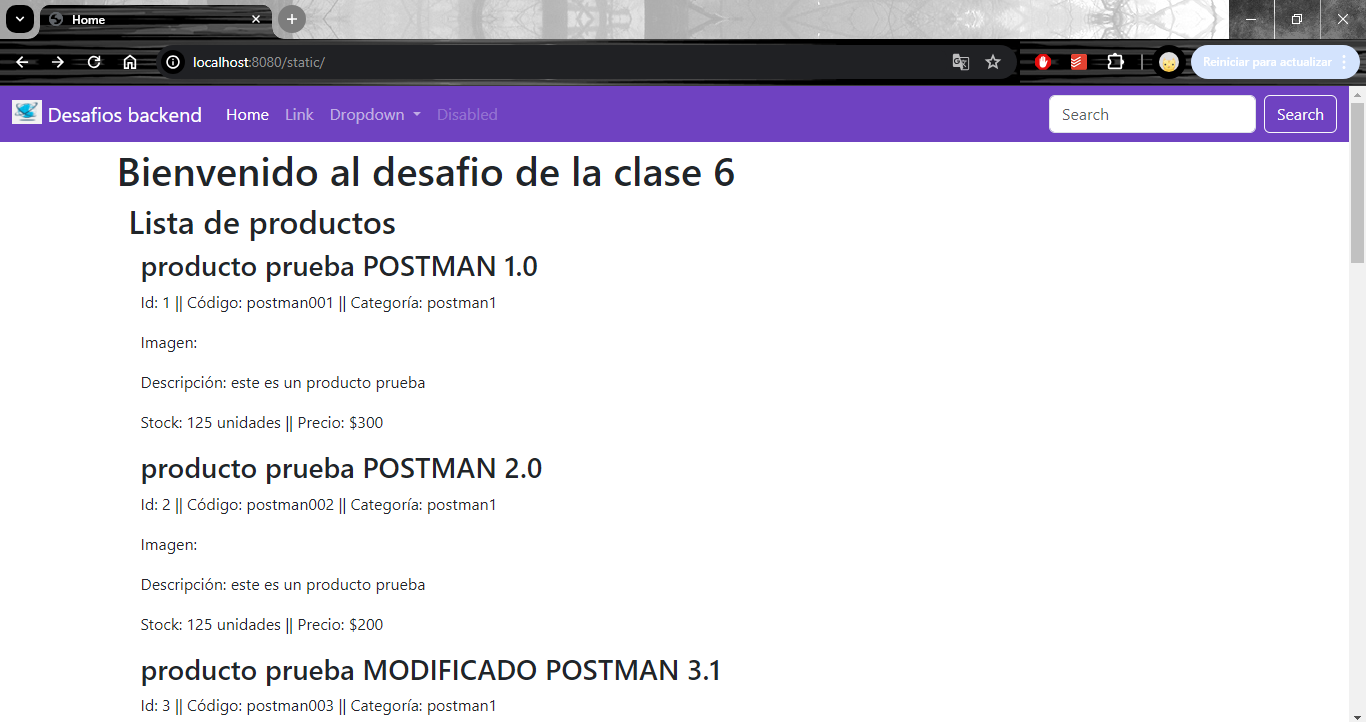
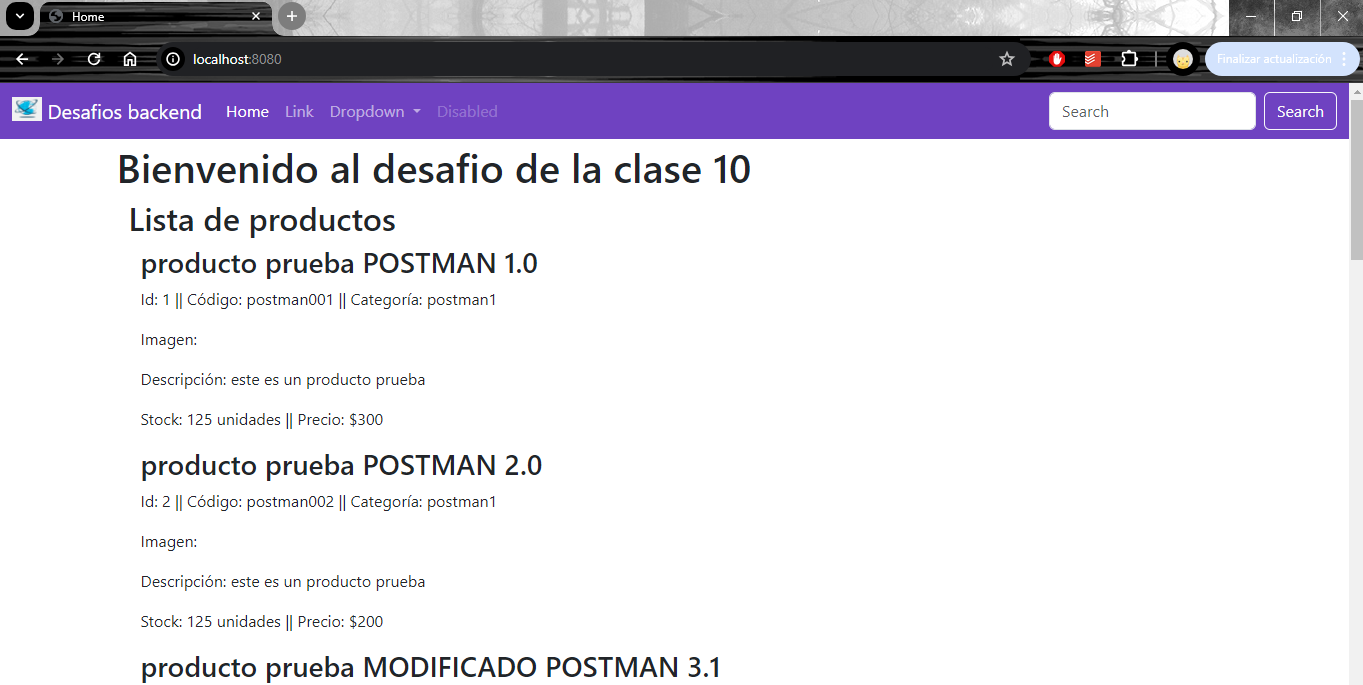
correcciones desafio 10

Changed region(s): [[0.0, 0.0, 1.0, 1.0], [0.4622, 0.0307, 0.5547, 0.0613]]

diff --git a/desafioClase10/src/app.js b/desafioClase10/src/app.js
@@ -3,7 +3,7 @@ import express from "express";
 import handlebars from "express-handlebars";
 import { Server } from "socket.io";
 
-import { __dirname } from "./utils/path.js";
+import { __dirname } from "./path.js";
 import path from "path";
 import prodsRouter from "./routes/products.routes.js";
 import cartsRouter from "./routes/carts.routes.js";
@@ -26,11 +26,11 @@ app.use(express.urlencoded({ extended: true }));
 
 app.engine("handlebars", handlebars.engine());
 app.set("view engine", "handlebars");
-app.set("views", path.resolve(__dirname, "../views"));
+app.set("views", path.resolve(__dirname, "./views"));
 
 app.use("/api/products", prodsRouter);
 app.use("/api/carts", cartsRouter);
-app.use("/static", express.static(path.join(__dirname, "/public")));
+app.use(express.static(__dirname + "/public"));
 app.use("/realtimeproducts", express.static(path.join(__dirname, "/public")));
 
 //Server with express
@@ -38,13 +38,22 @@ app.use("/realtimeproducts", express.static(path.join(__dirname, "/public")));
 socketServer.on("connection", (socket) => {
   console.log("Servidor Socket.io conectado");
   socket.on("newProd", async (prod) => {
-    const { title, description, code, price, stock, category, thumbnail } =
-      prod;
+    const {
+      title,
+      description,
+      code,
+      price,
+      status = true,
+      stock,
+      category,
+      thumbnail,
+    } = prod;
     const newProduct = new Product(
       title,
       description,
       code,
       price,
+      status,
       stock,
       category,
       thumbnail
@@ -102,10 +111,6 @@ getProds();
 
 //Endpoints
 app.get("/", (req, res) => {
-  res.send("Bienvenido al cuarto desafío.");
-});
-
-app.get("/static", (req, res) => {
   res.render("home", {
     css: "style.css",
     title: "Home",

diff --git a/desafioClase10/README.md b/desafioClase10/README.md
@@ -8,7 +8,7 @@ Se adjunta capturas del funcionamiento en el navegador.
 
 #### Nuevas rutas
 
-- ruta _/static_ -> utilizando únicamente handlebars, muestra una vista con el listado de todos los productos
+- ruta _/_ -> utilizando únicamente handlebars, muestra una vista con el listado de todos los productos
 
 ![alt text](./src/public/img/image.png)
 
@@ -20,6 +20,15 @@ Se adjunta capturas del funcionamiento en el navegador.
 Prueba de agregar productos:
 ![alt text](./src/public/img/image-1.png)
 ![alt text](./src/public/img/image-2.png)
+
+Al dar al botón de "Agregar producto" el formulario se limpia y en el listado en tiempo real de productos, al final de la página y sin necesidad de actualizarla, aparece el producto recién agregado:
+![alt text](./src/public/img/image-3.png)
+
+Prueba para eliminar productos:
+![alt text](./src/public/img/image-4.png)
+
+Al dar al botón de "Eliminar producto" el formulario se limpia y en el listado en tiempo real de productos, sin necesidad de actualizarla, se puede ver que falta el producto recién eliminado:
+![alt text](./src/public/img/image-5.png)
 
 #### Pasos para ejecutar el servidor
 
